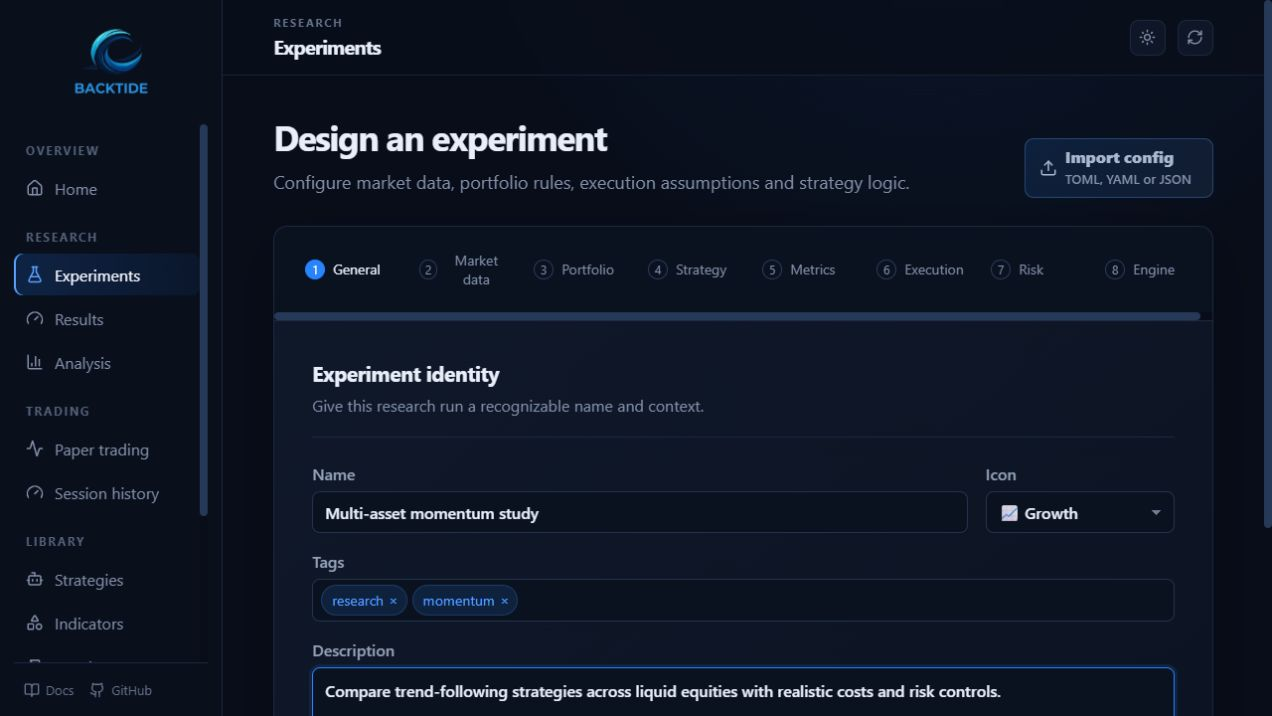
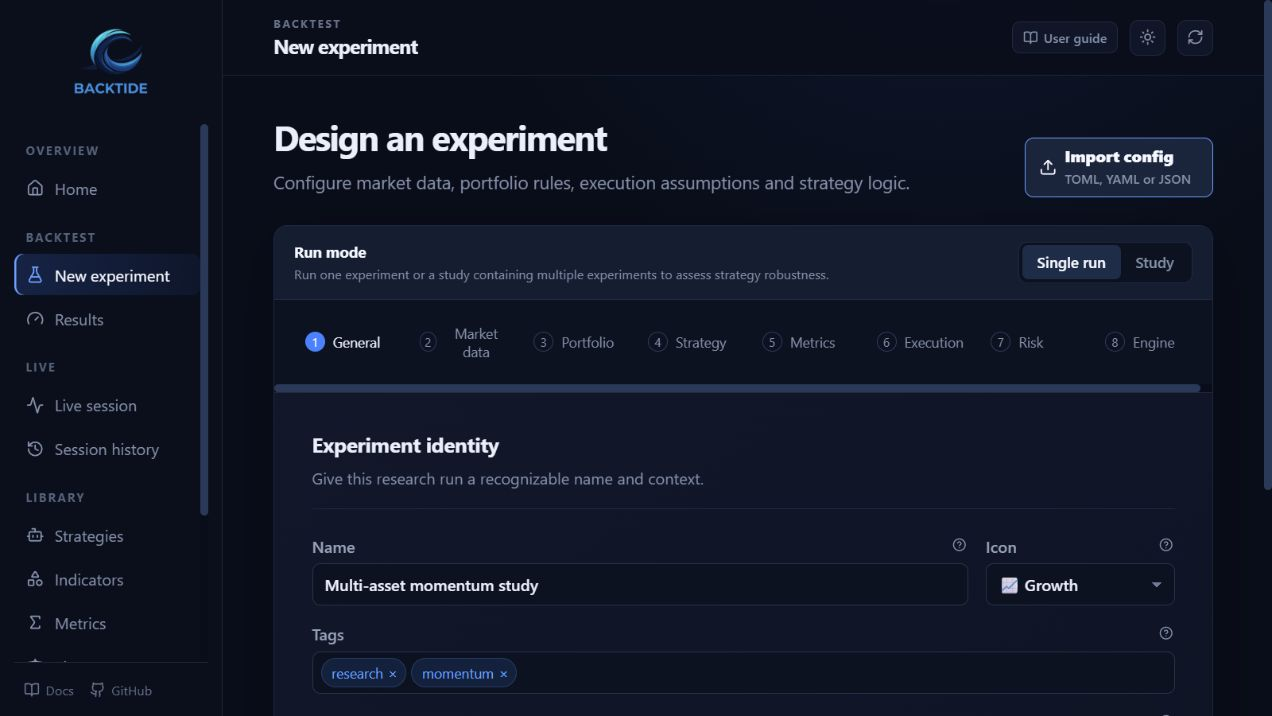
Update application overview and screenshots

diff --git a/docs_sources/user_guide/overview/application.md b/docs_sources/user_guide/overview/application.md
@@ -47,10 +47,9 @@ the app can start jobs and modify the configured local Backtide store.
 | Group | Section | Purpose |
 |---|---|---|
 | **Overview** | Home | Review recent experiments, stored datasets, active sessions, and workflow shortcuts. |
-| **Backtest** | Experiments | Configure data, portfolios, reusable assets, execution assumptions, risk, and engine behavior. |
+| **Backtest** | New experiment | Configure a single run or study across market data, portfolio, strategy, metrics, execution, risk, and engine settings. |
 | **Backtest** | Results | Compare completed runs and inspect metrics, equity, trades, orders, configuration, and logs. |
-| **Backtest** | Analysis | Build interactive price, return, correlation, seasonality, volatility, volume, and dividend plots. |
-| **Live** | Live simulation | Configure and run live-data strategies with local simulated execution. See [Live simulation]. |
+| **Live** | Live session | Configure and run live-data strategies with local simulated execution. See [Live simulation]. |
 | **Live** | Session history | Inspect persisted journals and replay a prior session through a fresh simulation engine. |
 | **Library** | Strategies | Create and manage strategies used by backtests and live simulation. |
 | **Library** | Indicators | Manage strategy dependencies and optional backtest/live monitoring indicators. |
@@ -58,6 +57,7 @@ the app can start jobs and modify the configured local Backtide store.
 | **Library** | Sizers | Save reusable built-in presets or custom position-sizing policies. |
 | **Data** | Download | Resolve instruments and download normalized OHLCV bars. |
 | **Data** | Storage | Inspect coverage, open stored series in Analysis, or delete selected data. |
+| **Data** | Analysis | Compare stored series with metrics and interactive price, return, correlation, seasonality, volatility, volume, VWAP, and dividend plots. |
 
 Searchable selectors are keyboard accessible and remain usable on smaller screens.
 Long-running downloads and experiments run in background jobs, so the interface can
@@ -70,23 +70,6 @@ show progress and accept cancellation without blocking navigation.
 The web application and Python API use the same calculations, configuration, and local storage.
 The browser never reads the database directly, and long-running work can report progress or be
 canceled without blocking navigation.
-
-<br>
-
-## Frontend development
-
-Package users can skip this section. Contributors changing `application/` install its
-development dependencies, run unit tests, and rebuild the committed production bundle:
-
-```console
-just frontend-sync
-just frontend-test
-just frontend-build
-```
-
-The build output is written to `src/backtide/ui/static/` and must be committed with
-the source change. `just launch` always serves that production bundle through the
-same backend used by an installed wheel.
 
 <br>
 
